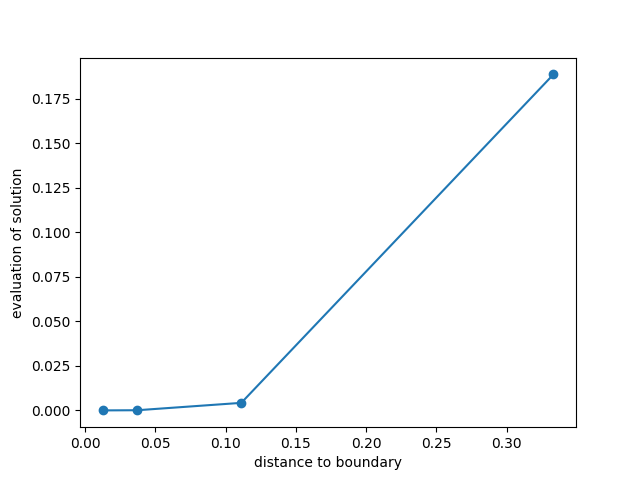
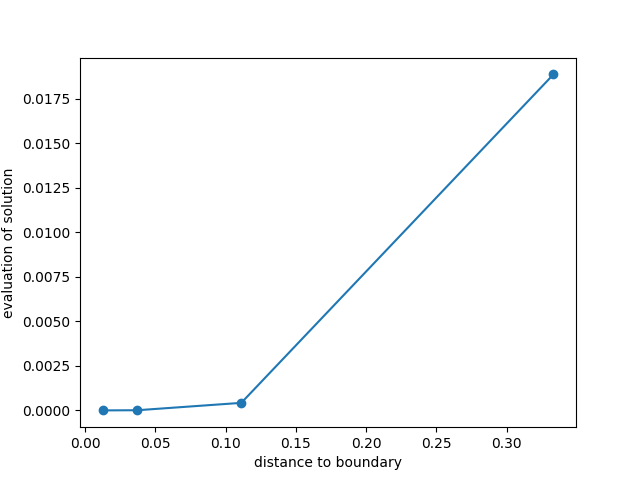
update

diff --git a/Ex3_square_harmonic_v2/harmonic_problem.py b/Ex3_square_harmonic_v2/harmonic_problem.py
@@ -59,17 +59,17 @@ plt.savefig(f"figures/evaluate_{n}.png")
 plt.close()
 PETSc.Sys.Print(f"plot of evaluation of solution is saved in figures/evaluate_{n}.png.")
 
-#tt=x_list
-#tt=np.array([(x_list[i]/x_list[2])**2.5*uu[2] for i in range(0,len(uu))])
-#plt.figure()
-#plt.loglog(x_list,uu,marker='o')
-#plt.loglog(x_list,tt,marker='v')
-#plt.ylabel('evaluation of solution')
-#plt.xlabel('distance to boundary')
-#plt.legend(['value of solution','$dist^{2.5}$'])
-#plt.savefig(f"figures/evaluate_log_{n}.png")
-#plt.close()
-#PETSc.Sys.Print(f"plot of evaluation of solution in loglog is saved in figures/evaluate_log_{n}.png.")
+tt=x_list
+tt=np.array([(x_list[i]/x_list[2])**1*uu[2] for i in range(0,len(uu))])
+plt.figure()
+plt.loglog(x_list,uu,marker='o')
+plt.loglog(x_list,tt,marker='v')
+plt.ylabel('evaluation of solution')
+plt.xlabel('distance to boundary')
+plt.legend(['value of solution','$dist^{1}$'])
+plt.savefig(f"figures/evaluate_log_{n}.png")
+plt.close()
+PETSc.Sys.Print(f"plot of evaluation of solution in loglog is saved in figures/evaluate_log_{n}.png.")
 
 PETSc.Sys.Print("evaluation of solution  at points:")
 PETSc.Sys.Print(pp)

diff --git a/Ex3_square_harmonic_v2/Ex3_solver.py b/Ex3_square_harmonic_v2/Ex3_solver.py
@@ -31,7 +31,7 @@ def get_solution(mesh,tolerance,max_iterations,deg):
     V = FunctionSpace(mesh, "Lagrange", deg)
     f=Constant(0.0)
     g=0.0
-    g_int=10.0
+    g_int=1.0
     uh = snowsolver(mesh, f,g,g_int,V)
     mark, sum_eta,eta_max = Mark(mesh,f,uh,V,tolerance)
     while sum_eta>tolerance and it<max_iterations:
